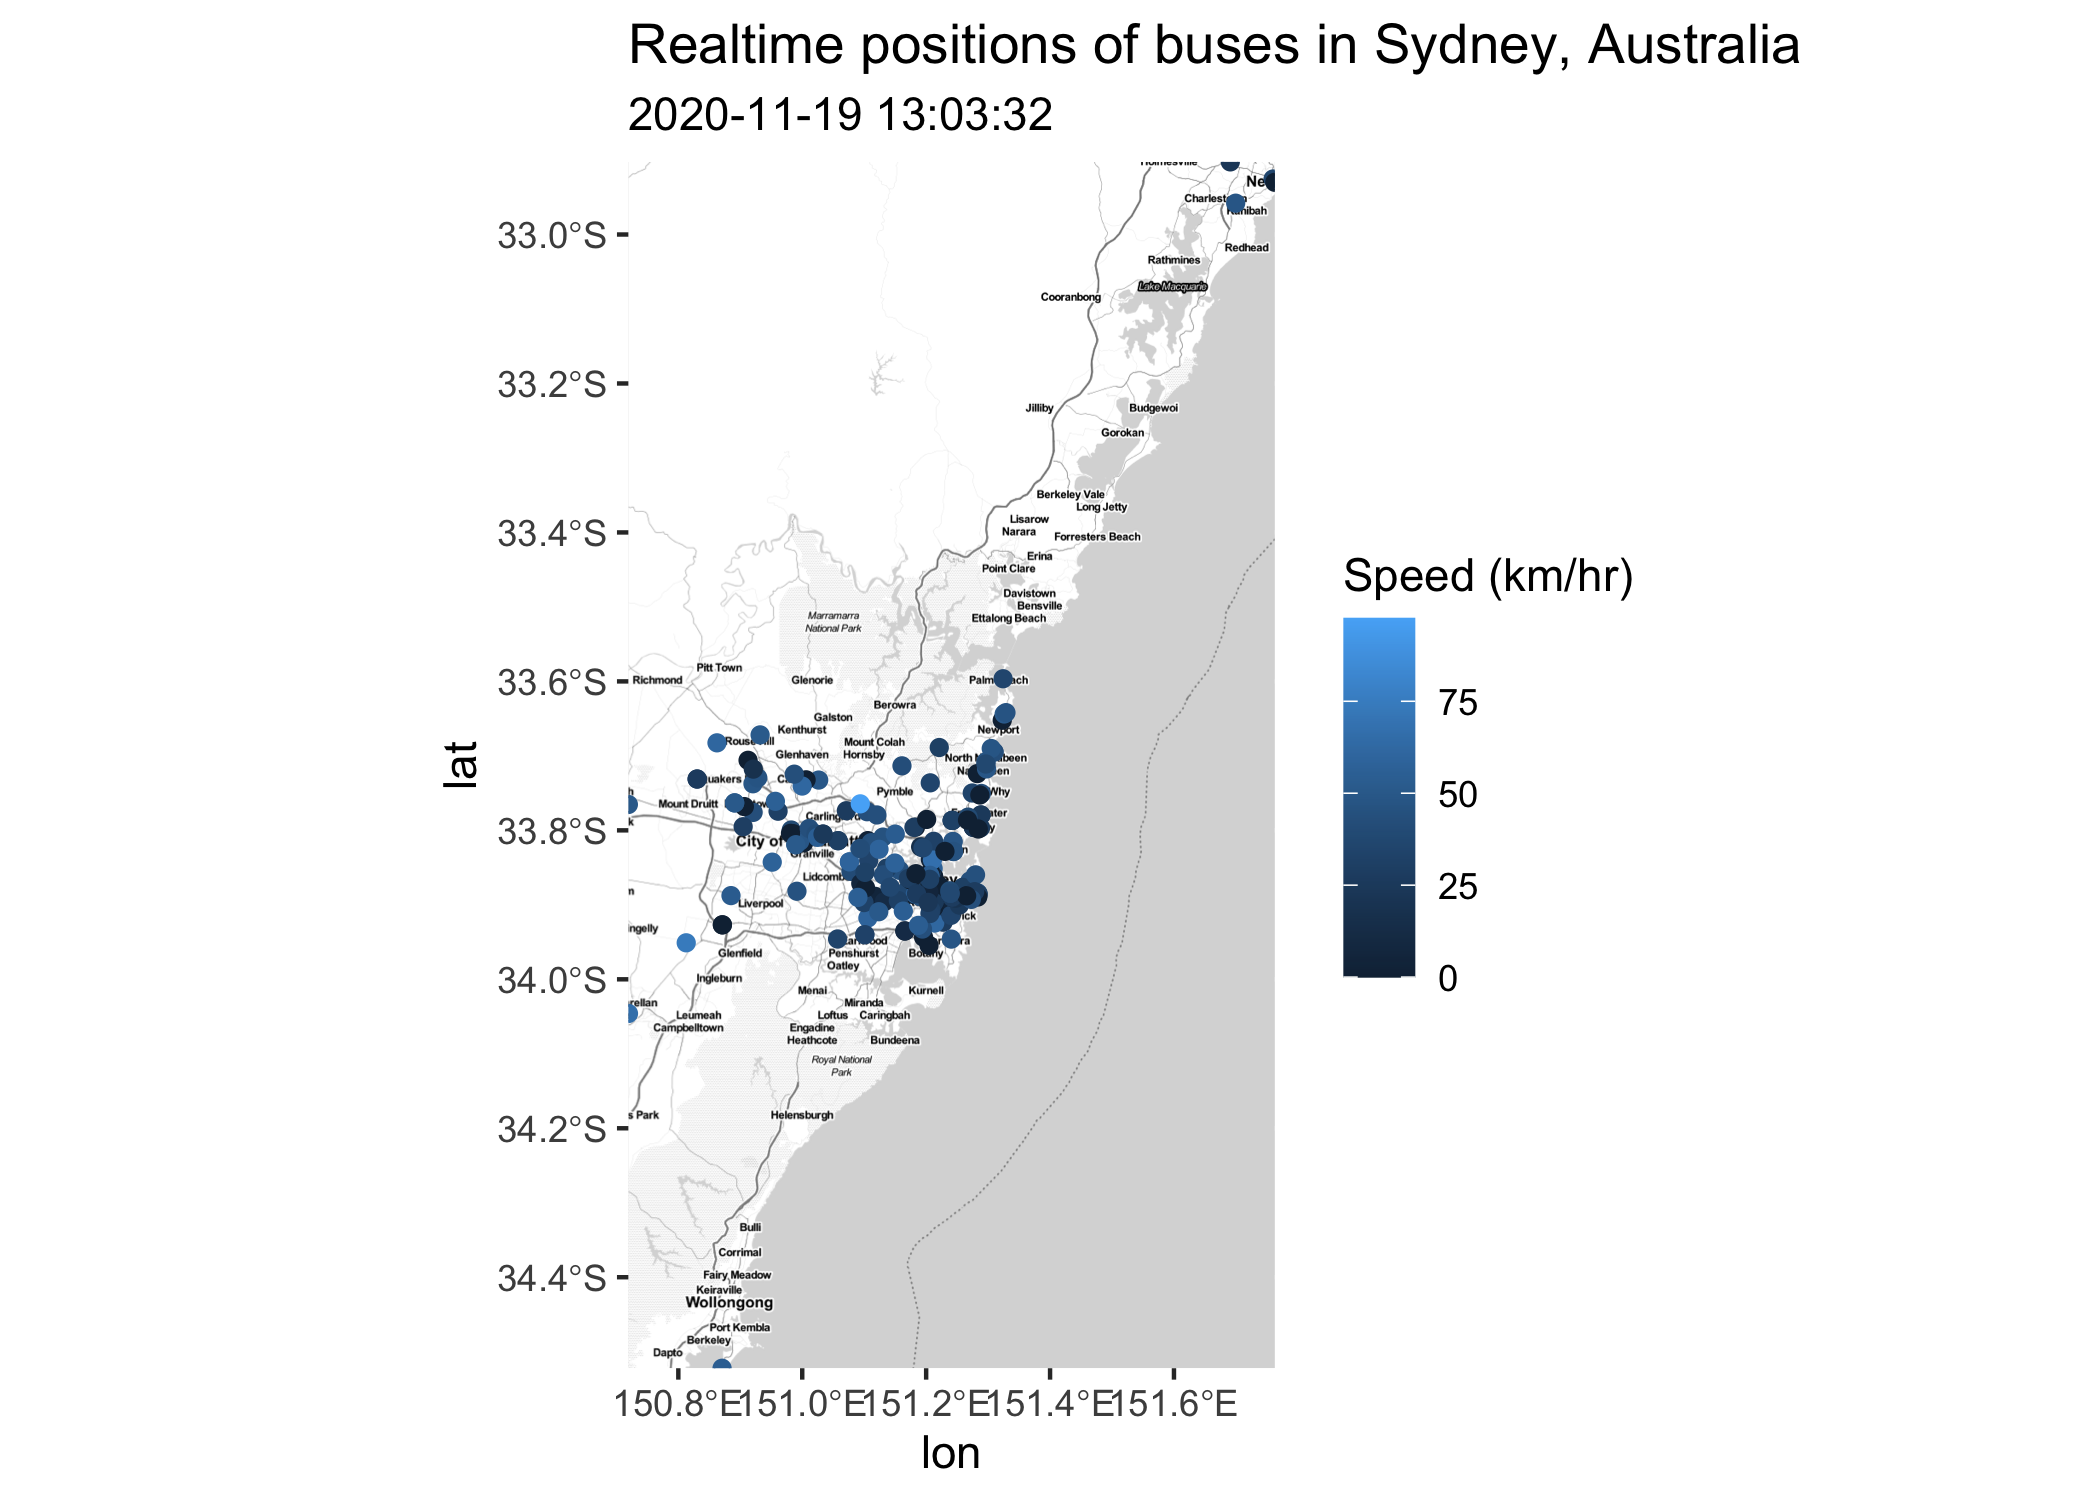
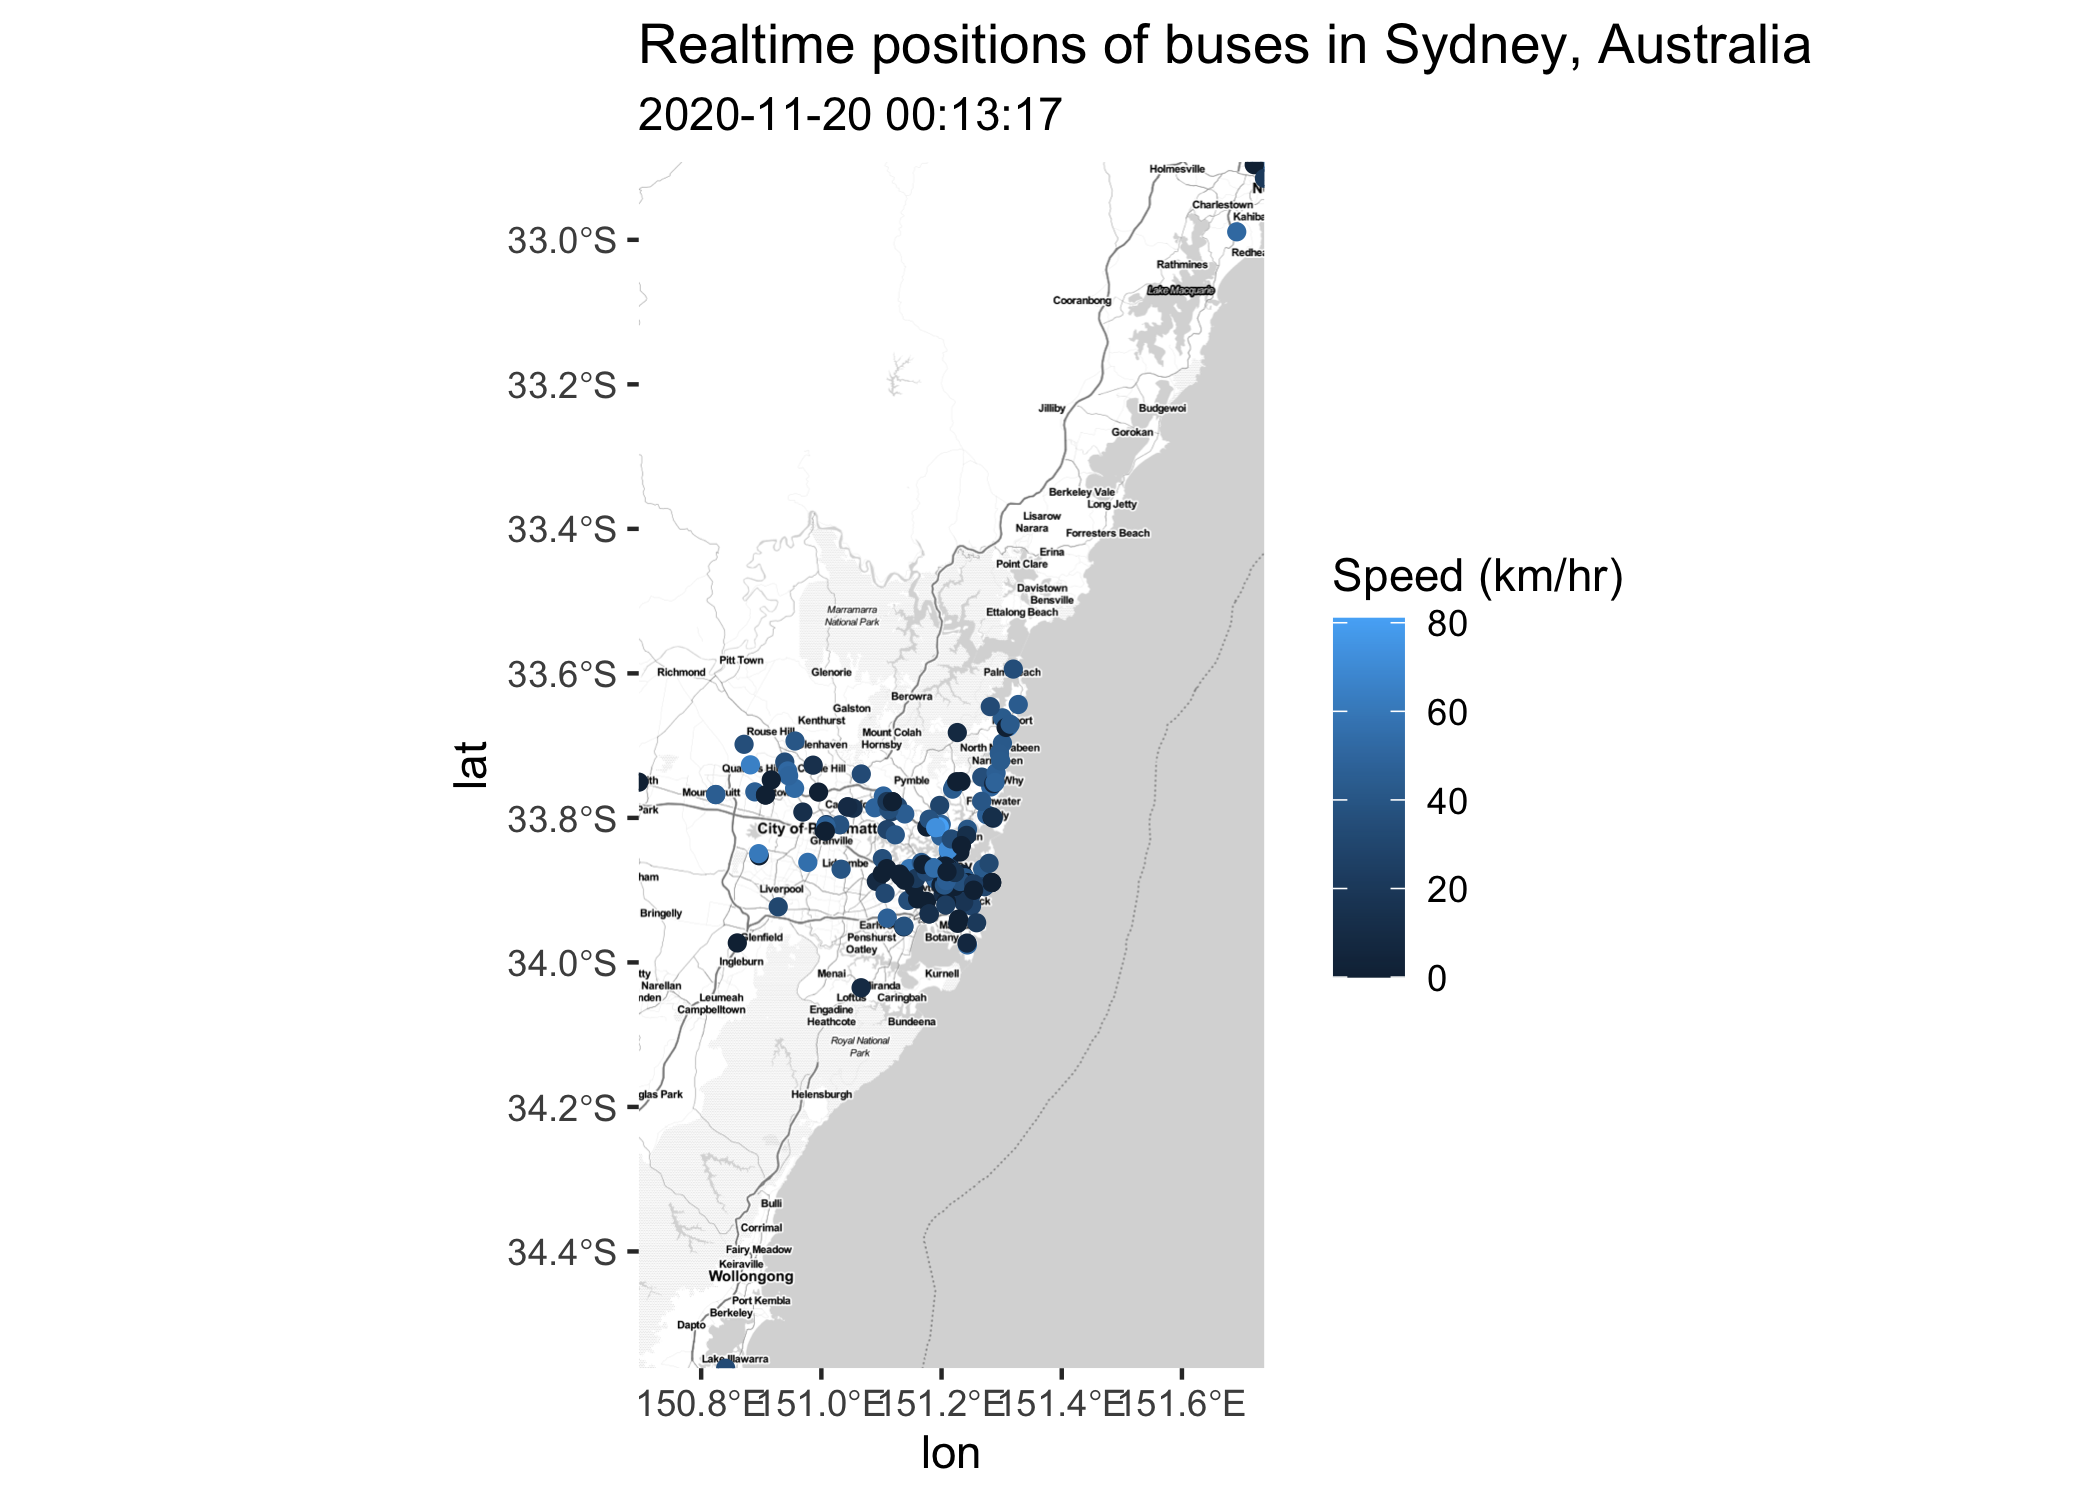
fix timezone in plots

diff --git a/README.md b/README.md
@@ -116,7 +116,7 @@ ggmap(sydney_map) +
   geom_sf(data = bus_position_table, aes(color = speed), inherit.aes = FALSE) +
   labs(title = "Realtime positions of buses in Sydney, Australia",
        color = "Speed (km/hr)",
-       subtitle = bus_response$date)
+       subtitle =  format(bus_response$date, tz = "Australia/Sydney"))
 ```
 
 <img src="man/figures/README-gtfsr-example-1.png" width="100%" />
